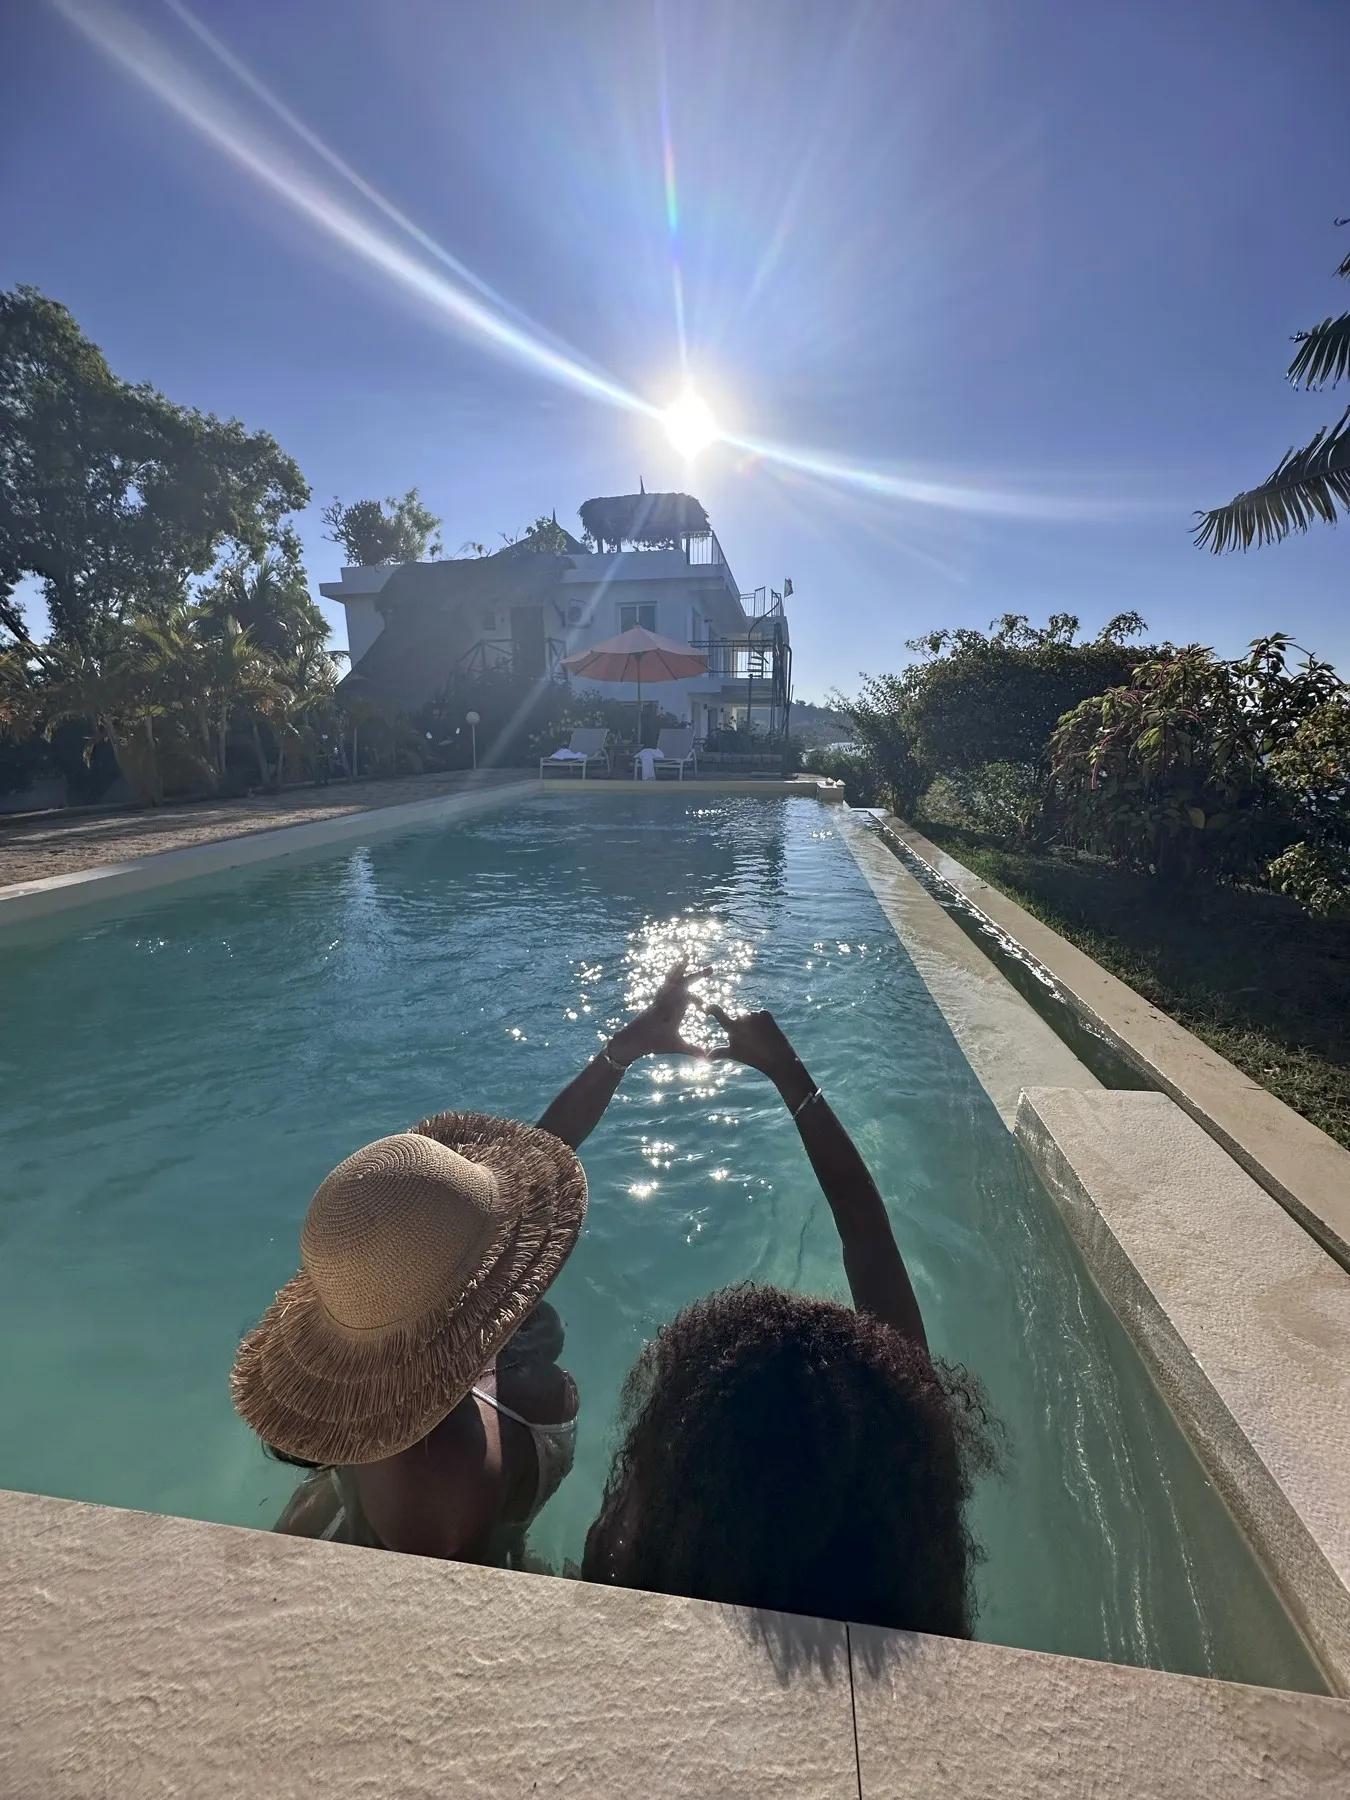
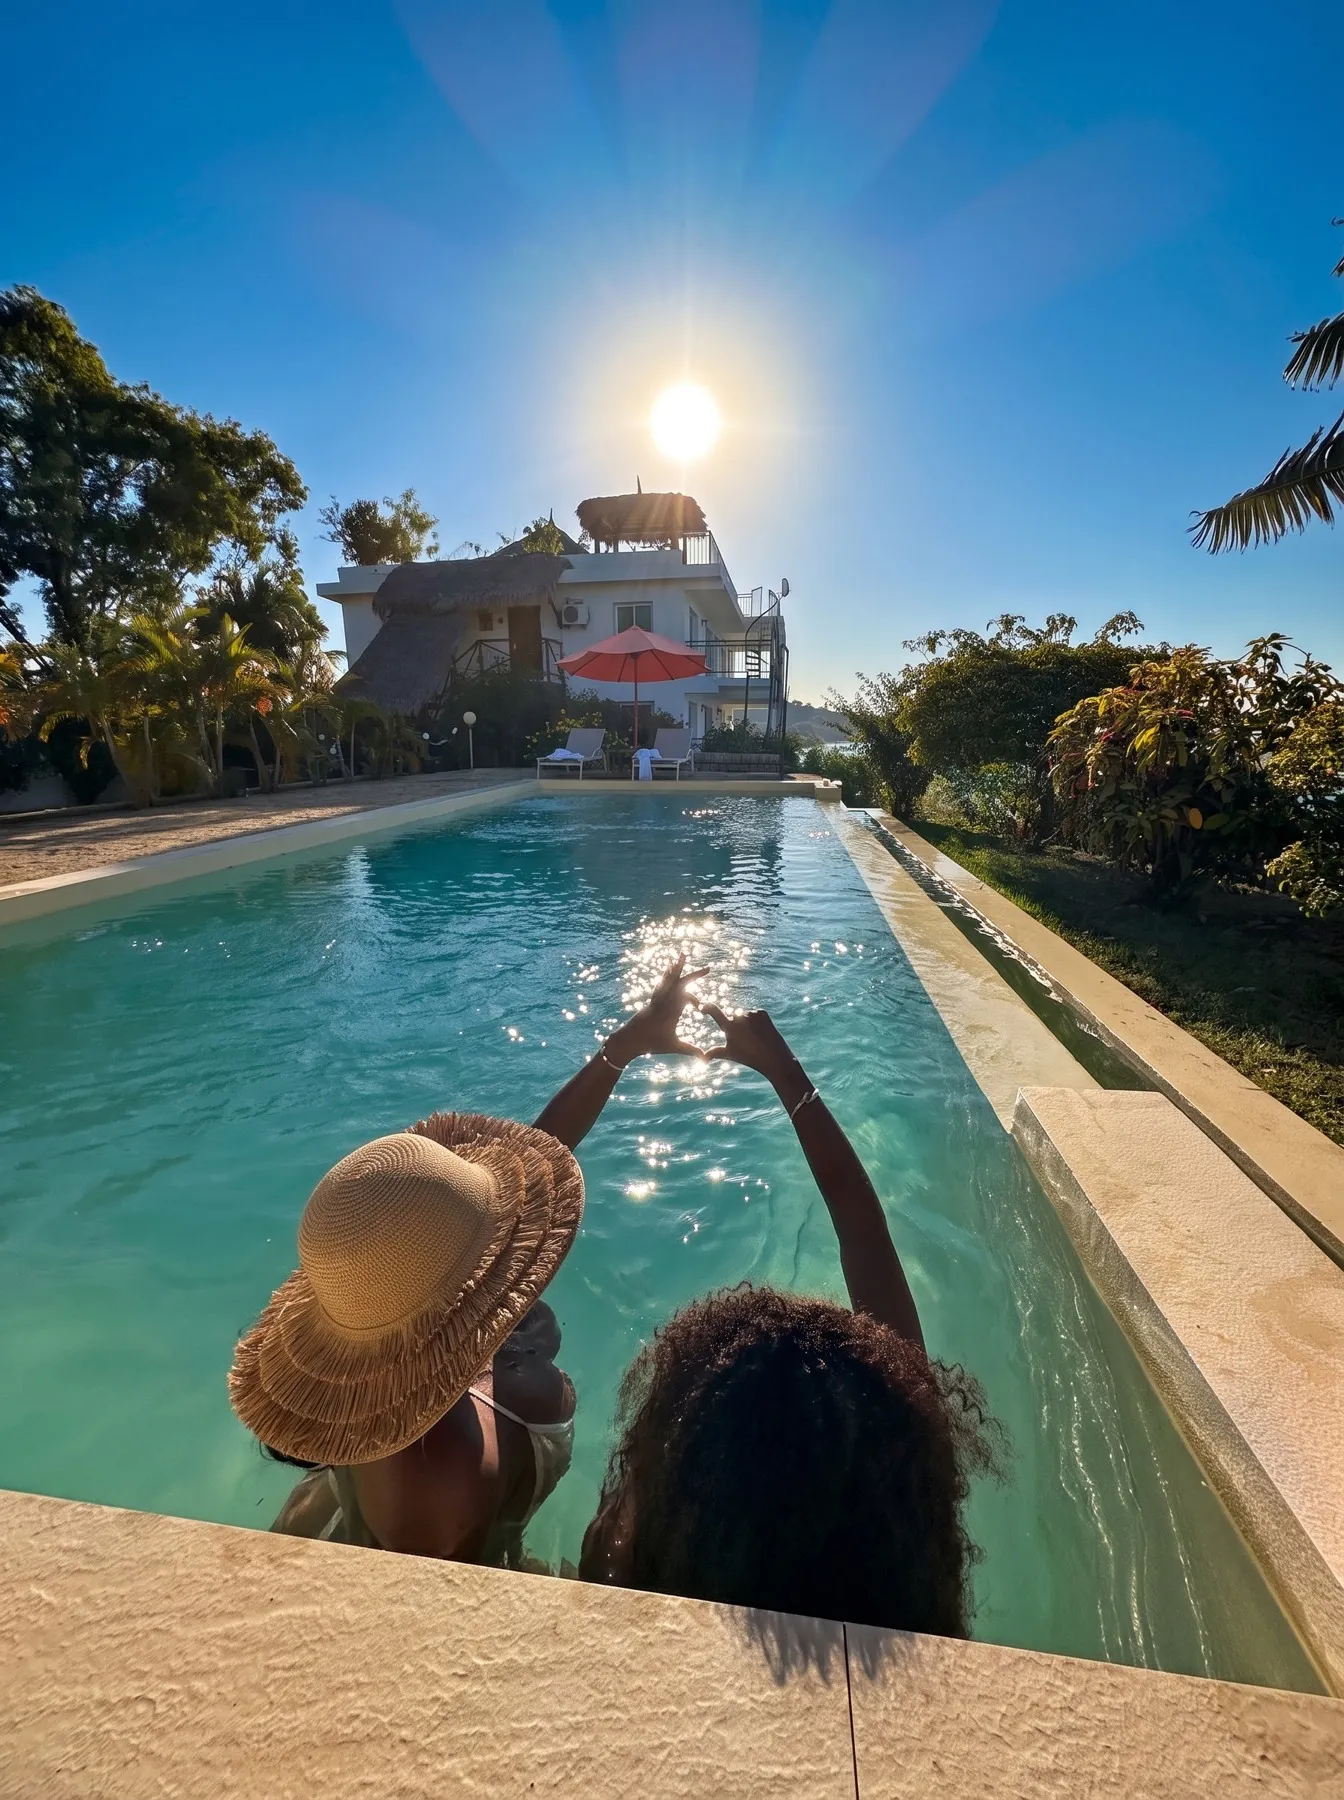
Piscine partagée : retrait de 5 photos (galerie 9 photos), photo 12 retouchée IA (variante B)

diff --git a/index.html b/index.html
@@ -387,7 +387,7 @@
     </div>
     <div class="shared-grid">
       <article data-reveal class="shared-card" data-gallery>
-        <div class="shared-media"><img class="slot" loading="lazy" decoding="async" src="images/piscine-16.webp" alt="La piscine face au lagon, partagée entre les logements"><span class="shared-flag">Partagée</span><span class="shared-count">14 photos</span><div class="gallery-extra" hidden><img loading="lazy" decoding="async" src="images/piscine-2.webp" alt="La piscine partagée — apéro sous le parasol, frites et boissons fraîches"><img loading="lazy" decoding="async" src="images/piscine-3.webp" alt="La piscine partagée — les transats face à la mer"><img loading="lazy" decoding="async" src="images/piscine-4.webp" alt="La piscine partagée — bain de soleil sous le parasol"><img loading="lazy" decoding="async" src="images/piscine-5.webp" alt="La piscine partagée — la piscine et la résidence en arrière-plan"><img loading="lazy" decoding="async" src="images/piscine-6.webp" alt="La piscine partagée — détente sur les transats au bord de la piscine"><img loading="lazy" decoding="async" src="images/piscine-7.webp" alt="La piscine partagée — les transats, la piscine et la mer"><img loading="lazy" decoding="async" src="images/piscine-8.webp" alt="La piscine partagée — la vue sur la mer depuis le bord de la piscine"><img loading="lazy" decoding="async" src="images/piscine-9.webp" alt="La piscine partagée — le bord de la piscine face au lagon"><img loading="lazy" decoding="async" src="images/piscine-10.webp" alt="La piscine partagée — dans l'eau face à la résidence"><img loading="lazy" decoding="async" src="images/piscine-11.webp" alt="La piscine partagée — baignade en fin d'après-midi"><img loading="lazy" decoding="async" src="images/piscine-12.webp" alt="La piscine partagée — un cœur avec les mains dans la piscine"><img loading="lazy" decoding="async" src="images/piscine-13.webp" alt="La piscine partagée — la piscine au soleil"><img loading="lazy" decoding="async" src="images/piscine-15.webp" alt="La piscine partagée — baignade à deux face à la résidence"></div></div>
+        <div class="shared-media"><img class="slot" loading="lazy" decoding="async" src="images/piscine-16.webp" alt="La piscine face au lagon, partagée entre les logements"><span class="shared-flag">Partagée</span><span class="shared-count">9 photos</span><div class="gallery-extra" hidden><img loading="lazy" decoding="async" src="images/piscine-2.webp" alt="La piscine partagée — apéro sous le parasol, frites et boissons fraîches"><img loading="lazy" decoding="async" src="images/piscine-3.webp" alt="La piscine partagée — les transats face à la mer"><img loading="lazy" decoding="async" src="images/piscine-6.webp" alt="La piscine partagée — détente sur les transats au bord de la piscine"><img loading="lazy" decoding="async" src="images/piscine-9.webp" alt="La piscine partagée — le bord de la piscine face au lagon"><img loading="lazy" decoding="async" src="images/piscine-11.webp" alt="La piscine partagée — baignade en fin d'après-midi"><img loading="lazy" decoding="async" src="images/piscine-12.webp" alt="La piscine partagée — un cœur avec les mains, face à la résidence"><img loading="lazy" decoding="async" src="images/piscine-13.webp" alt="La piscine partagée — la piscine au soleil"><img loading="lazy" decoding="async" src="images/piscine-15.webp" alt="La piscine partagée — baignade à deux face à la résidence"></div></div>
         <div class="shared-body">
           <h3>La piscine face au lagon</h3>
           <p>Elle est partagée entre Lune de Miel, Clair de Lune et un appartement voisin. En pratique, elle est le plus souvent calme, et rien que pour vous.</p>
@@ -992,6 +992,7 @@
     // i18n — traduction FR / IT / EN
     (function () {
       var T = {
+        "9 photos": { it: "9 foto", en: "9 photos" },
         "15 photos": { it: "15 foto", en: "15 photos" },
         "14 photos": { it: "14 foto", en: "14 photos" },
         "3 photos": { it: "3 foto", en: "3 photos" },
